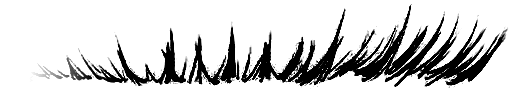
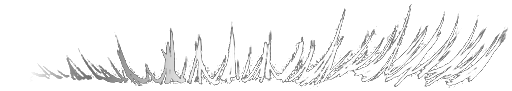
feat(ar): 글램 2.0 v13 — 결(농도) 채널 복원 + _GrainAmt 손잡이
- 뭉침의 원인 = 불투명화가 잉크 농도(한올 결의 실체)를 실루엣으로 눌러버림
- 분리 구조: 알파=윤곽(가시성 철벽 유지), R채널=불투명화 전 농도(95퍼센타일 정규화 베이크)
- 셰이더 _GrainAmt(0~1): 0=기존 실루엣(하위호환 기본), 1=원본 농담 전부 — 연하기 조종축
- 검증: 농도 분포 p10 0.26~p90 1.00(변별력 확보), 장착 3종(0/0.5/1.0) 비교 시트

Changed region(s): [[0.0938, 0.0659, 1.0, 0.9451]]

diff --git a/tools/glam2-lash/lash_extract.py b/tools/glam2-lash/lash_extract.py
@@ -299,6 +299,13 @@ def finalize(name, cfg, a, root_row):
         ramp = np.clip(np.linspace(0, 1, tw) / cfg["gap_frac"], 0, 1)
         a *= ramp[None, :]
 
+    # 결(농도) 채널 — 불투명화 '전'의 잉크 농도를 정규화해 RGB에 베이크(0723 승인).
+    # 알파=윤곽(가시성 철벽), R=농도(한올 결). 셰이더 _GrainAmt가 반영량을 조절:
+    # 0=현 실루엣(하위호환), 1=원본 농담 전부. 95퍼센타일 정규화라 최진 부분은 1 유지.
+    ink = a[a > 0.05]
+    dens_hi = np.percentile(ink, 95) if ink.size else 1.0
+    dens = np.clip(a / max(dens_hi, 1e-3), 0, 1)
+
     a = np.clip((a - OPACIFY_LO) / (OPACIFY_HI - OPACIFY_LO), 0, 1)  # 불투명화 — 유일한 1회
     a[r, :] = np.maximum(a[r, :], (a[r, :] > 0.15) * 0.6)             # 뿌리줄 앵커
 
@@ -306,6 +313,10 @@ def finalize(name, cfg, a, root_row):
 
     OUT.mkdir(parents=True, exist_ok=True)
     rgba = np.zeros((th, tw, 4), dtype=np.uint8)
+    d8 = (dens * 255).astype(np.uint8)
+    rgba[..., 0] = d8
+    rgba[..., 1] = d8
+    rgba[..., 2] = d8
     rgba[..., 3] = (a * 255).astype(np.uint8)
     png = OUT / f"lash_glam_{name}.png"
     Image.fromarray(rgba).save(png)
